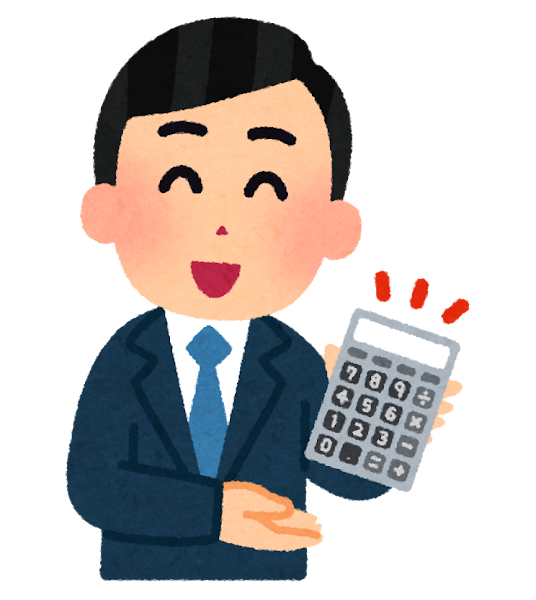
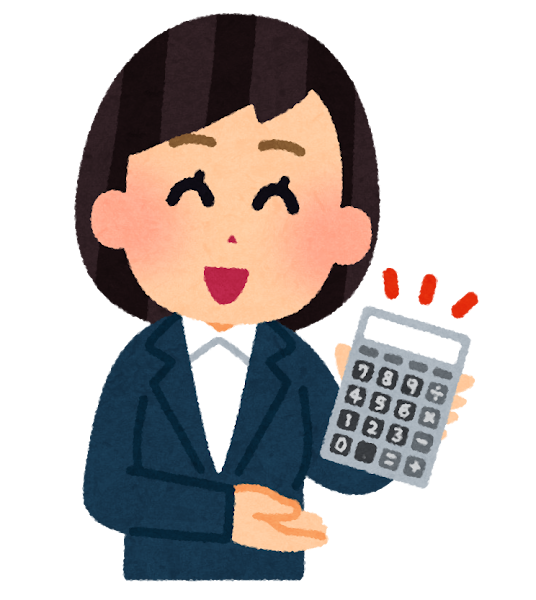
Deck: use the women versions of the illustrations

diff --git a/slides.html b/slides.html
@@ -81,7 +81,7 @@ cream    not on the list</span></pre></div>
     <div>
       <p class="label">“Is this list completely correct?”</p>
       <blockquote>“Yes. All quantities were calculated by subtracting pantry stocks from total requirements.”</blockquote>
-      <img class="inline-pic" src="img/sure.png" alt="A man looking very pleased with himself">
+      <img class="inline-pic" src="img/sure.png" alt="A woman looking very pleased with herself">
     </div>
   </div>
   <p>Over ten meal plans it said it was sure seven times. It was right five times.</p>
@@ -95,7 +95,7 @@ cream    not on the list</span></pre></div>
     <li>Code adds and subtracts.<span>750 − 500 = 250.</span></li>
   </ol>
   <p class="small">Same model and the same instructions as before.</p>
-  <img class="pic" src="img/calc.png" alt="A man in a suit holding up a calculator">
+  <img class="pic" src="img/calc.png" alt="A woman in a suit holding up a calculator">
 </section>
 
 <section class="slide">
